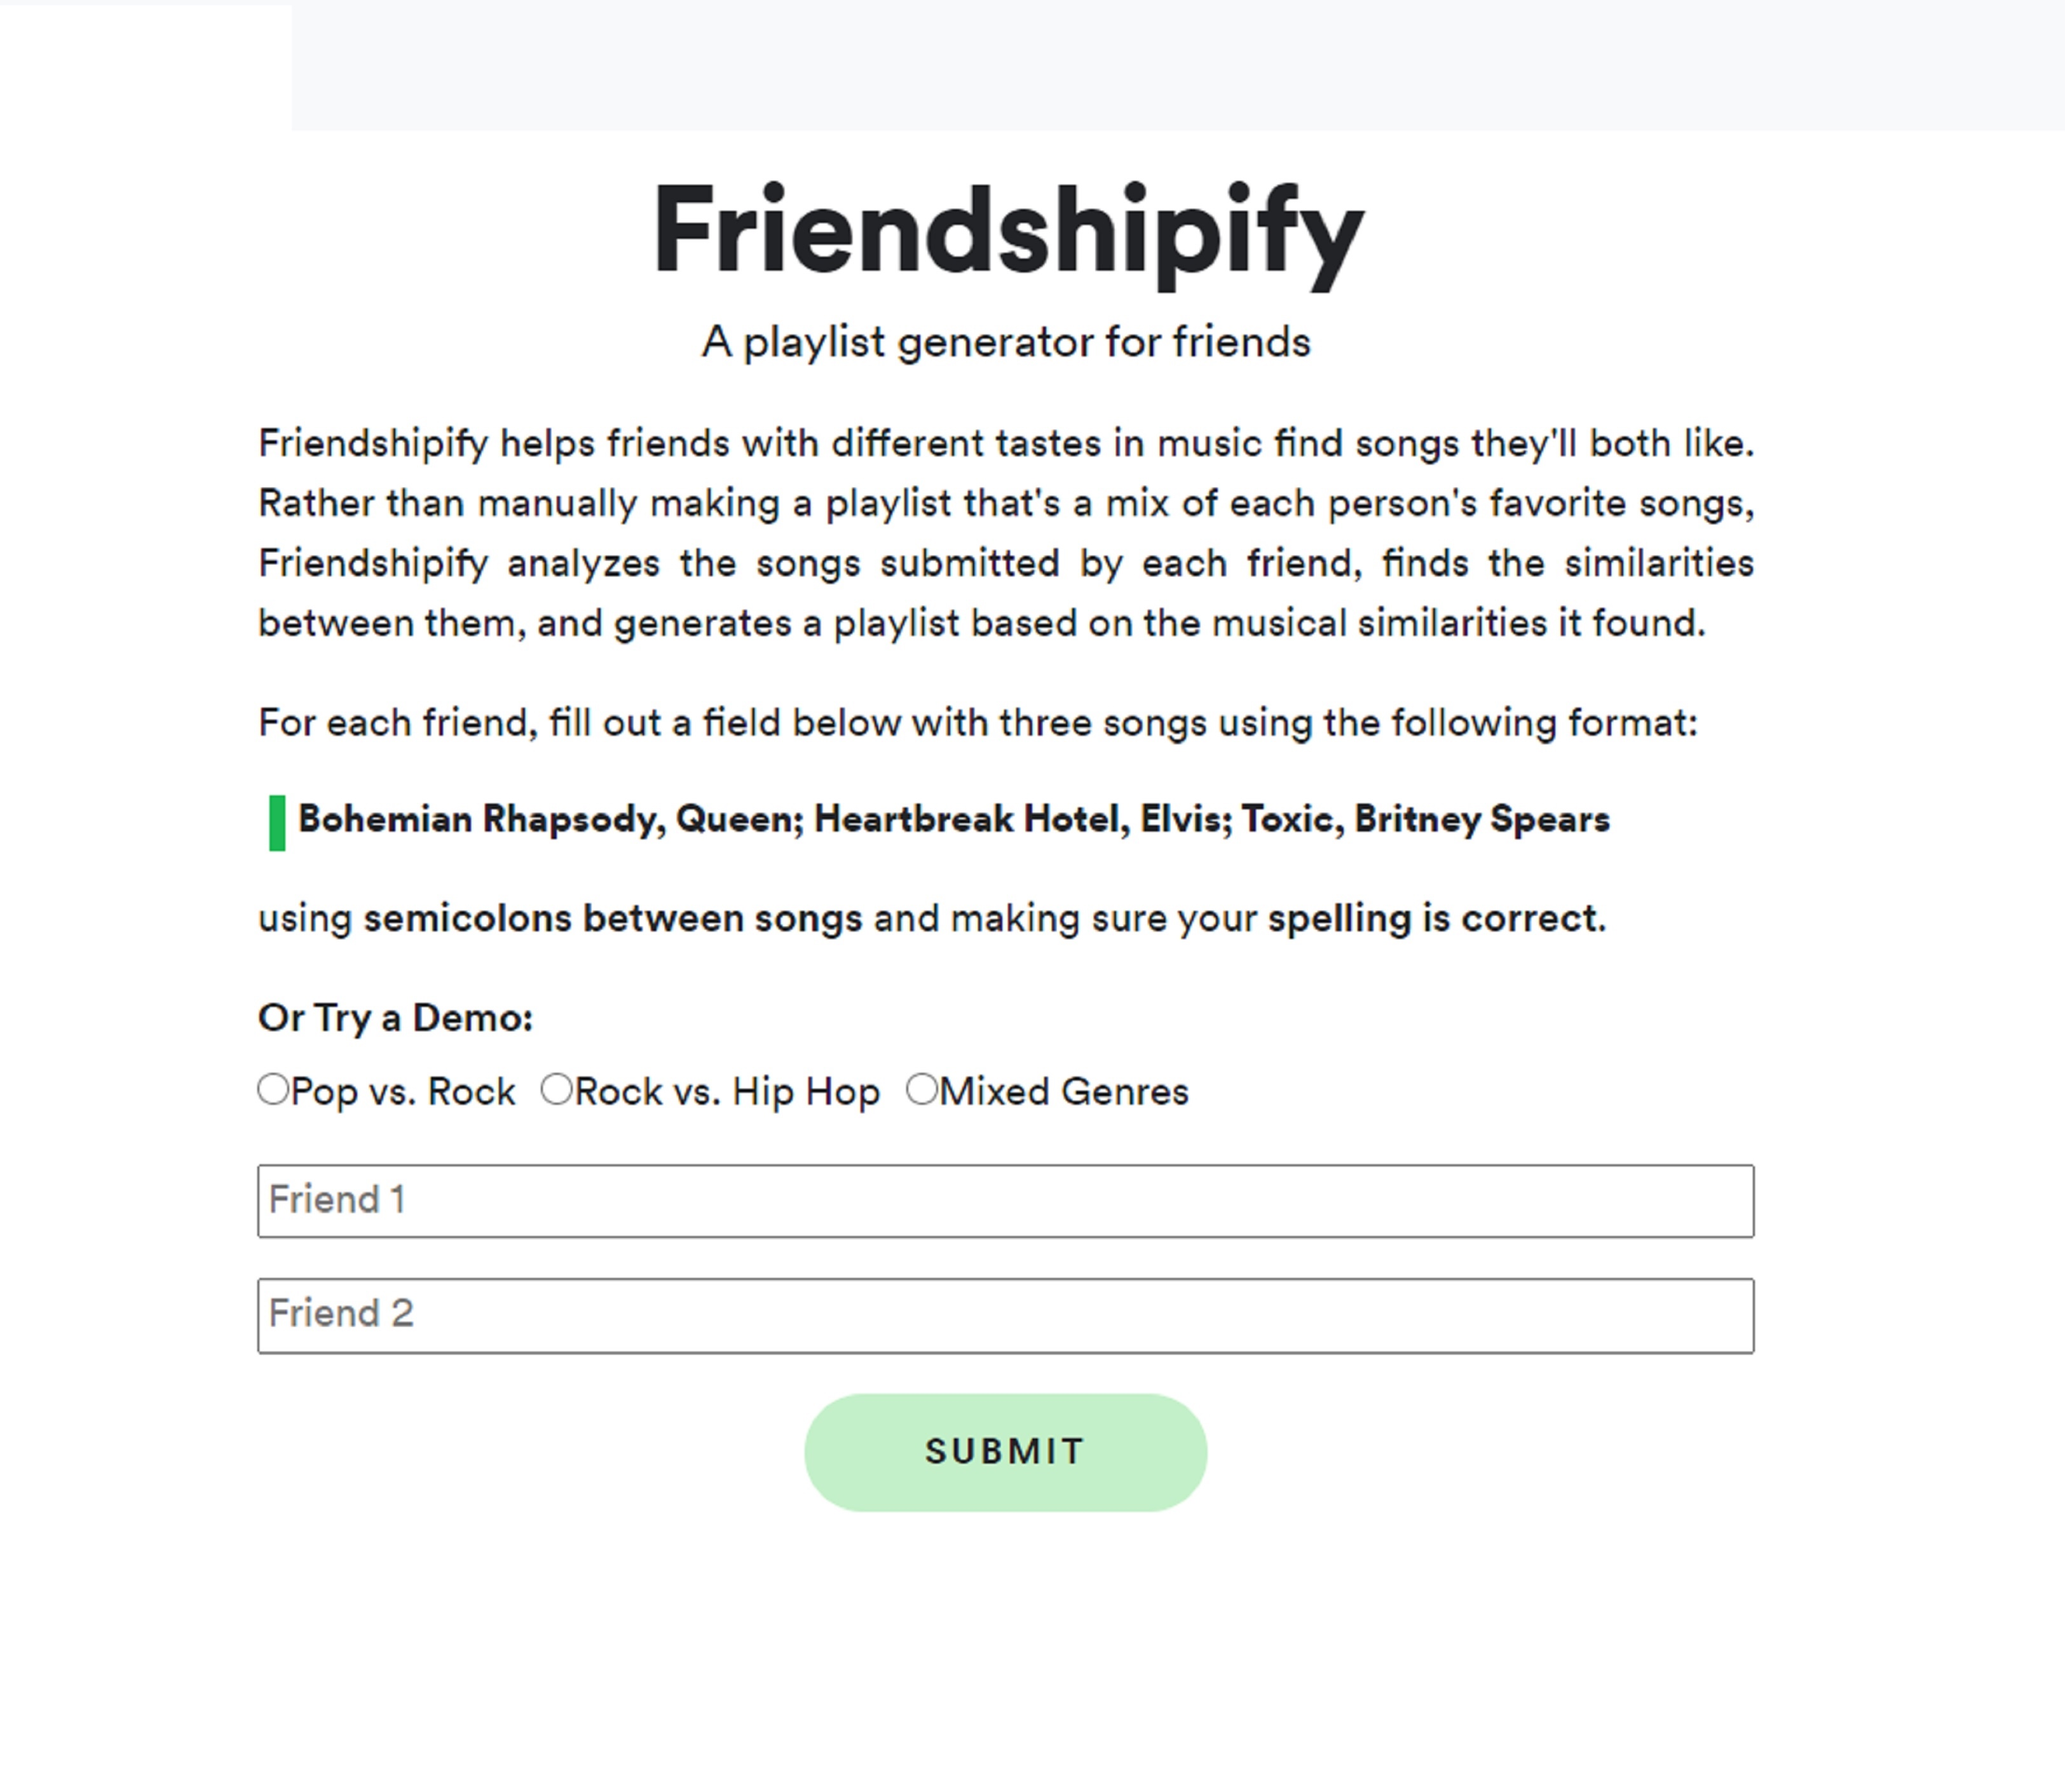
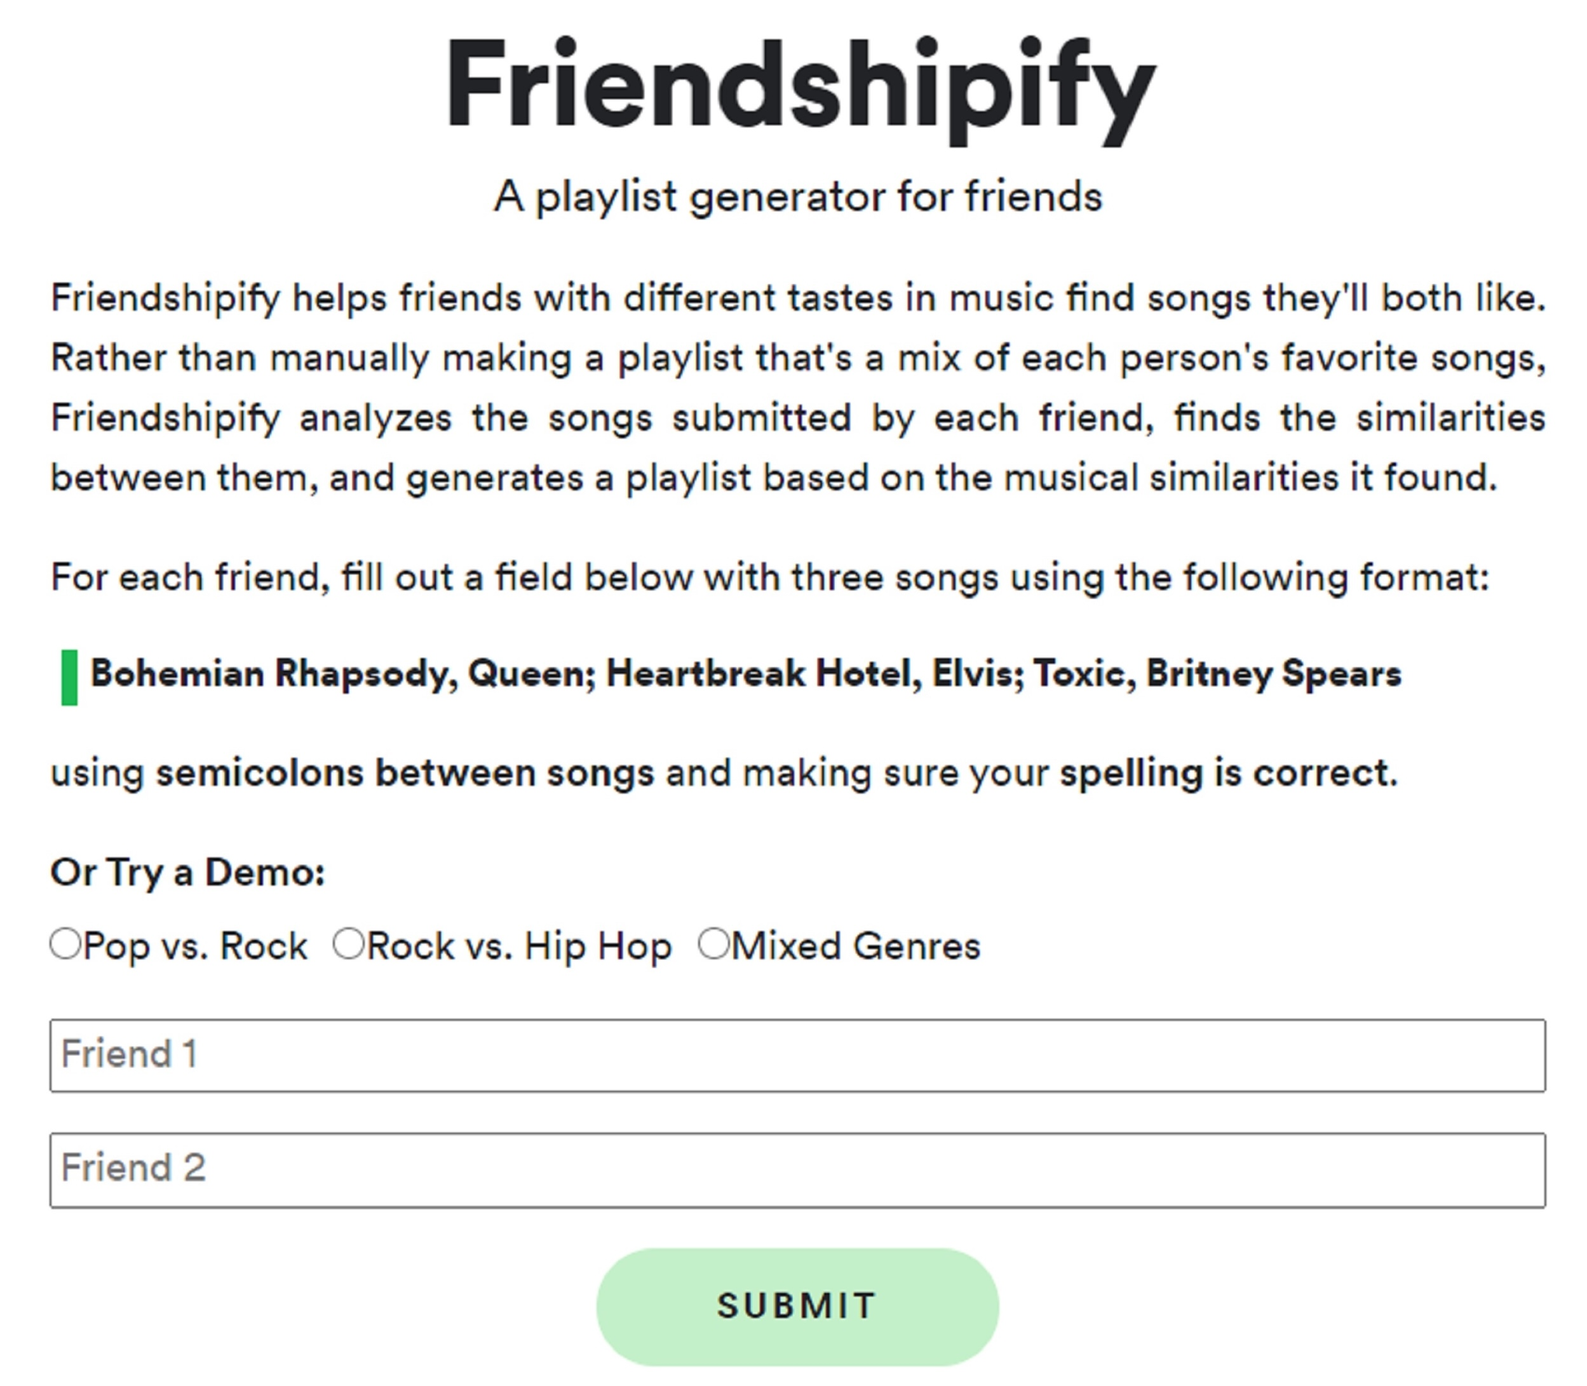
fix test decoration on button

diff --git a/_sass/jekyll-theme-minimal.scss b/_sass/jekyll-theme-minimal.scss
@@ -17,7 +17,6 @@ body {
 // }
 
 p, ul, ol, table, pre, dl {
-  margin:0 0 20px;
   padding-top: 20px;
 }
 
@@ -29,6 +28,7 @@ h1, h2, h3 {
 h1 {
   font-size: 28px;
   text-align: center;
+  margin-top: 0px;
 }
 
 h1-title {
@@ -40,6 +40,7 @@ h1-title {
 
 h2 {
   color:#000000;
+  margin-bottom: 0px;
 }
 
 h3, h4, h5, h6 {
@@ -72,12 +73,15 @@ a:hover small {
 
 button {
   background: #adff00;
+  display: block;
+  margin: 0 auto;
   padding: 0.75em 1.5em;
   font-size: 0.85rem;
   border: none;
   font-weight: 600;
   border-radius: 3px;
   transition: 100ms all linear;
+
 }
 
 button:hover {
@@ -233,7 +237,7 @@ small {
 
 hr {
   border:0;
-  background:#aeaeae;
+  background:#dedede;
   height:1px;
   margin-top: 20px;
   margin-bottom: 20px;

diff --git a/index.md b/index.md
@@ -9,13 +9,14 @@ number one on the Billboard Hot 100 Chart from the 1950s to present.
 <img src="./images/records.jpg"/>
 
 <div class="download-link">
-    <a href="https://github.com/d-alvear/Analyzing-Music-by-Decade/blob/main/reports/project-writeup.md" target="_blank" rel="noopener noreferrer">
+    <a href="https://github.com/d-alvear/Analyzing-Music-by-Decade/blob/main/reports/project-writeup.md" target="_blank" rel="noopener noreferrer" style="text-decoration: none;">
         <button>
             Read More
         </button>
     </a>
 </div>
 
+--
 
 ## Friendshipify: A Playlist Generator For Friends 
 
@@ -25,7 +26,7 @@ Friendshipify will recommend songs based on the similarities between two users' 
 <img src="./images/crop_2_friendshipify_home.jpg"/>
 
 <div class="download-link">
-    <a href="https://medium.com/towards-data-science/friendshipify-a-playlist-generator-for-friends-f79297f08b03" target="_blank" rel="noopener noreferrer">
+    <a href="https://medium.com/towards-data-science/friendshipify-a-playlist-generator-for-friends-f79297f08b03" target="_blank" rel="noopener noreferrer" style="text-decoration: none;">
         <button>
             Read more
         </button>
